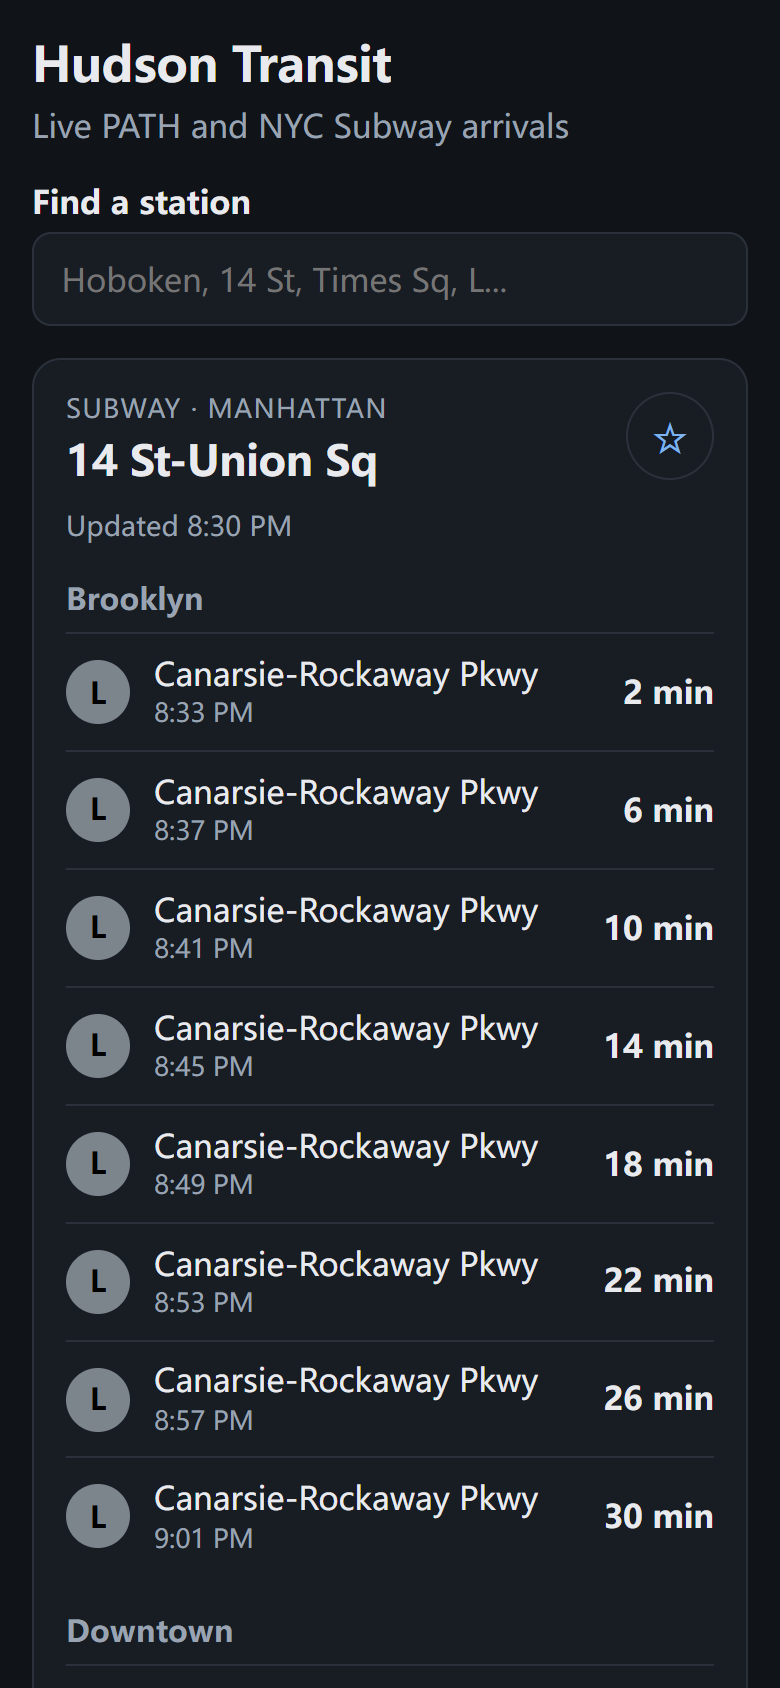
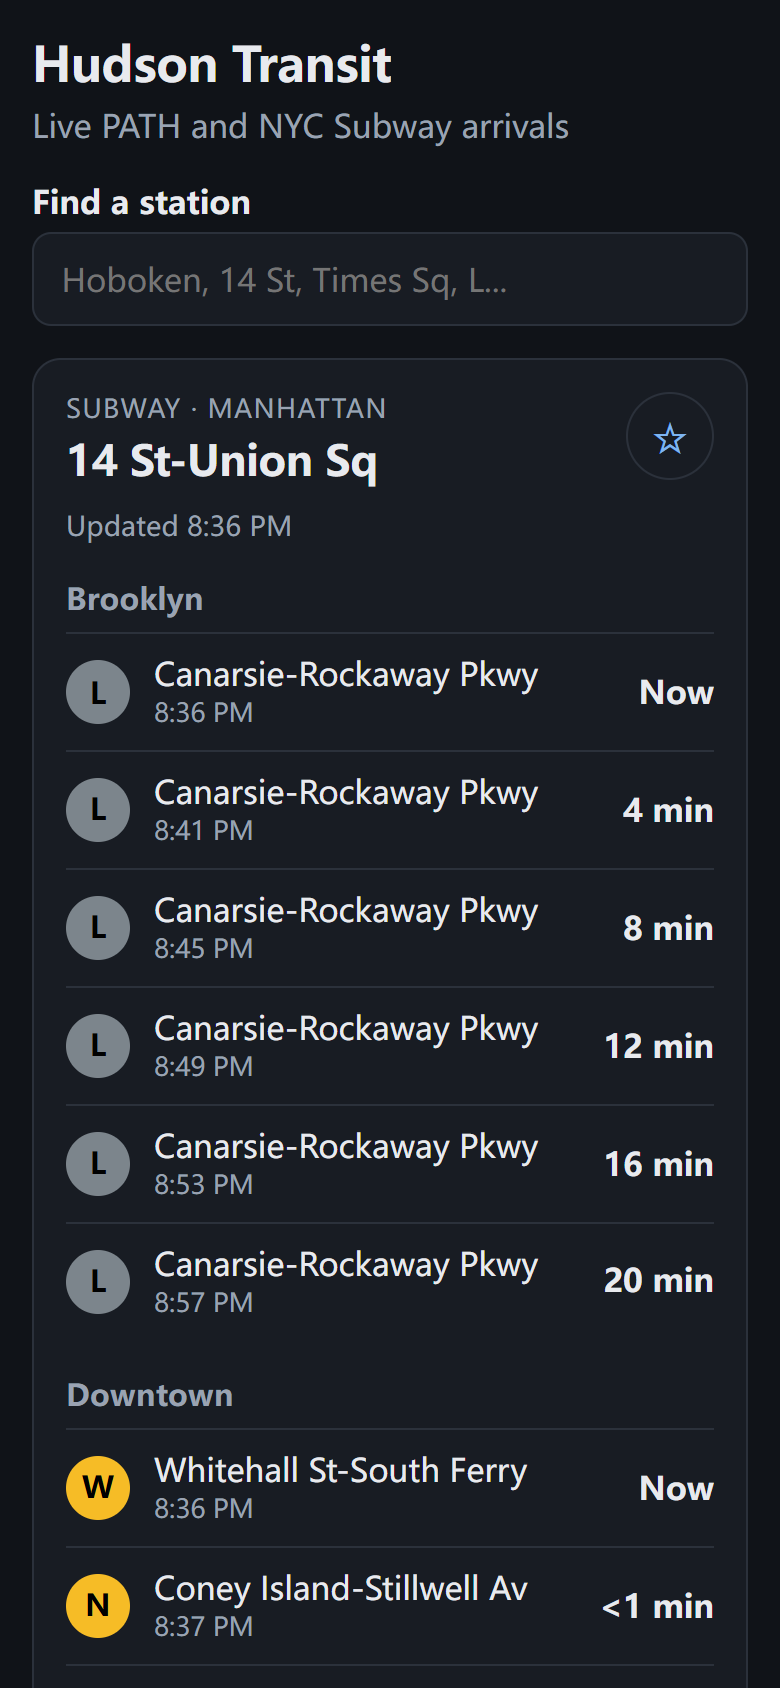
Refresh screenshots after footer disclaimer change

diff --git a/README.md b/README.md
@@ -13,7 +13,7 @@ station search, favorites and auto-refresh. No API keys are needed.
 | ---------------------------------------------------------------------------------------- | ----------------------------------------------------------------------------------------------- |
 | <img src="docs/screenshot-light.png" width="260" alt="Hoboken PATH board in light mode"> | <img src="docs/screenshot-dark.png" width="260" alt="14 St-Union Sq subway board in dark mode"> |
 
-Screenshots were captured from live data by `scripts/screenshot.ts` on 2026-09-28 around 8:30 PM ET.
+Screenshots were captured from live data by `scripts/screenshot.ts` on 2026-09-28 around 8:36 PM ET.
 
 ## Results
 
